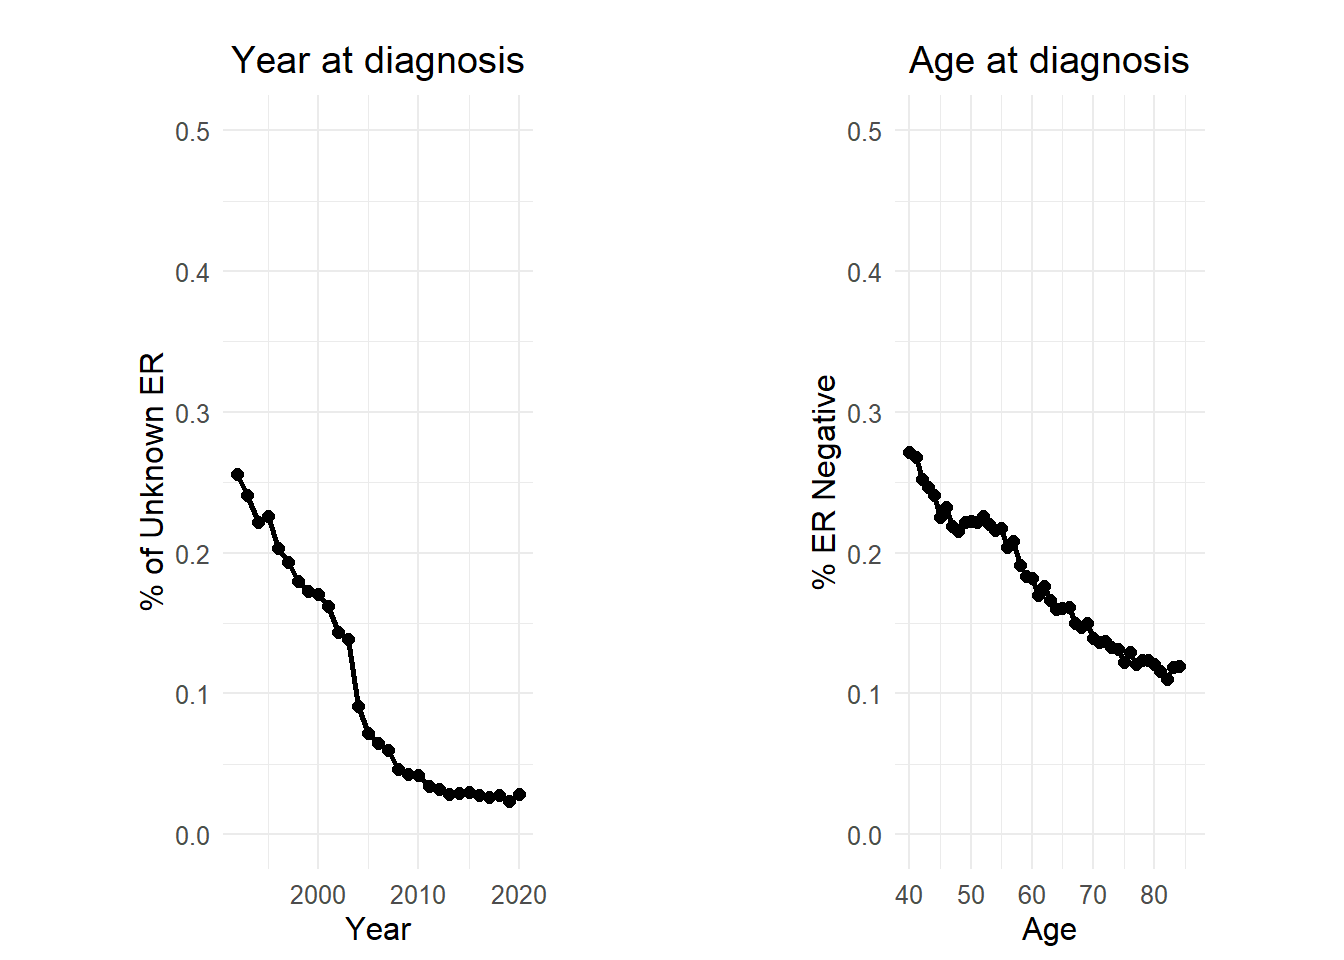
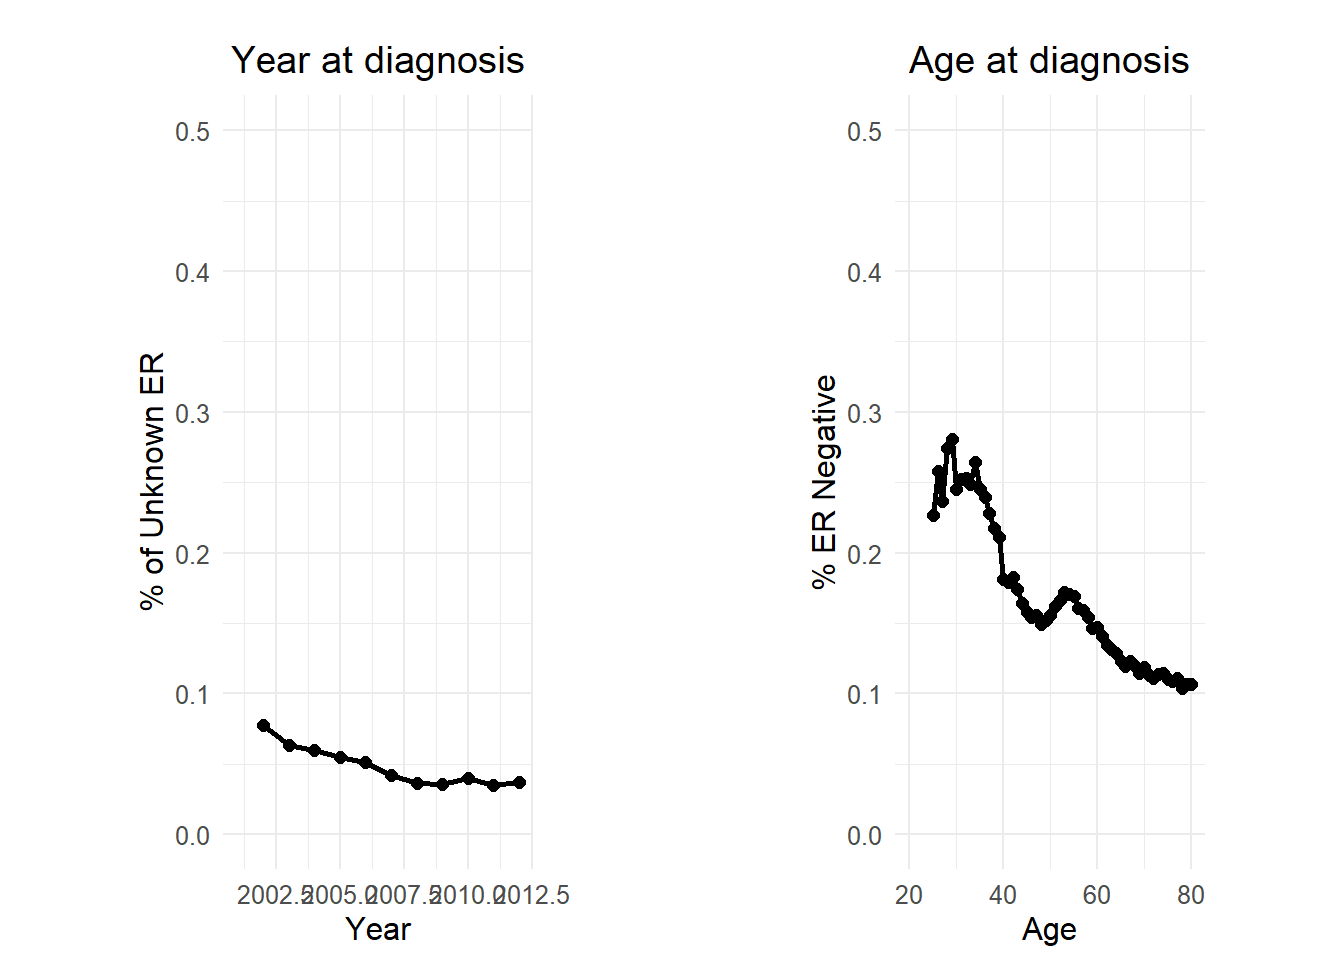
Add files via upload

diff --git a/survival_article/html/imputation.html b/survival_article/html/imputation.html
@@ -9,7 +9,7 @@
 <meta name="author" content="AMF">
 <meta name="dcterms.date" content="2024-01-31">
 
-<title>Simple Imputation - malignant breast cancer by ER using SEER 12, 1992–2020</title>
+<title>Simple Imputation - malignant breast cancer by ER using SEER 22, 2000–2020</title>
 <style>
 code{white-space: pre-wrap;}
 span.smallcaps{font-variant: small-caps;}
@@ -113,7 +113,7 @@ code span.wa { color: #60a0b0; font-weight: bold; font-style: italic; } /* Warni
 
 <header id="title-block-header" class="quarto-title-block default">
 <div class="quarto-title">
-<h1 class="title">Simple Imputation - malignant breast cancer by ER using SEER 12, 1992–2020</h1>
+<h1 class="title">Simple Imputation - malignant breast cancer by ER using SEER 22, 2000–2020</h1>
 </div>
 
 
@@ -137,7 +137,7 @@ code span.wa { color: #60a0b0; font-weight: bold; font-style: italic; } /* Warni
     <div>
     <div class="quarto-title-meta-heading">Modified</div>
     <div class="quarto-title-meta-contents">
-      <p class="date-modified">February 16, 2024</p>
+      <p class="date-modified">February 17, 2024</p>
     </div>
   </div>
     
@@ -148,7 +148,7 @@ code span.wa { color: #60a0b0; font-weight: bold; font-style: italic; } /* Warni
 
 <section id="data-source" class="level4">
 <h4 class="anchored" data-anchor-id="data-source">Data Source</h4>
-<p>National Cancer Institute. Surveillance, Epidemiology, and End Results (SEER12) Program Populations (1992-2020). Available at: <a href="https://www.seer.cancer.gov/popdata">www.seer.cancer.gov/popdata</a>. Released November 2023. National Cancer Institute, DCCPS, Surveillance Research Program.</p>
+<p>National Cancer Institute. Surveillance, Epidemiology, and End Results (SEER22) Program Populations (2000-2020). Available at: <a href="https://www.seer.cancer.gov/popdata">www.seer.cancer.gov/popdata</a>. Released November 2023. National Cancer Institute, DCCPS, Surveillance Research Program.</p>
 </section>
 <section id="morphology" class="level4">
 <h4 class="anchored" data-anchor-id="morphology">Morphology</h4>
@@ -183,7 +183,7 @@ Note
 <p>Discuss the process involved in accessing locked data files from SEER12 that have been stored on GitHub.</p>
 <div class="cell">
 <div class="sourceCode cell-code" id="cb1"><pre class="sourceCode r code-with-copy"><code class="sourceCode r"><span id="cb1-1"><a href="#cb1-1" aria-hidden="true" tabindex="-1"></a><span class="co"># Read the dataset from the provided URL</span></span>
-<span id="cb1-2"><a href="#cb1-2" aria-hidden="true" tabindex="-1"></a>url <span class="ot">&lt;-</span> <span class="st">"https://raw.githubusercontent.com/filhoalm/Breast_cancer/main/Incidence/see12/seer12_er.csv"</span></span>
+<span id="cb1-2"><a href="#cb1-2" aria-hidden="true" tabindex="-1"></a>url <span class="ot">&lt;-</span> <span class="st">"https://raw.githubusercontent.com/filhoalm/ITEB-breast-cancer/main/survival_article/data/seer22_race_er.csv"</span></span>
 <span id="cb1-3"><a href="#cb1-3" aria-hidden="true" tabindex="-1"></a>df <span class="ot">&lt;-</span> <span class="fu">read_csv</span>(url)</span></code><button title="Copy to Clipboard" class="code-copy-button"><i class="bi"></i></button></pre></div>
 </div>
 <div class="cell">
